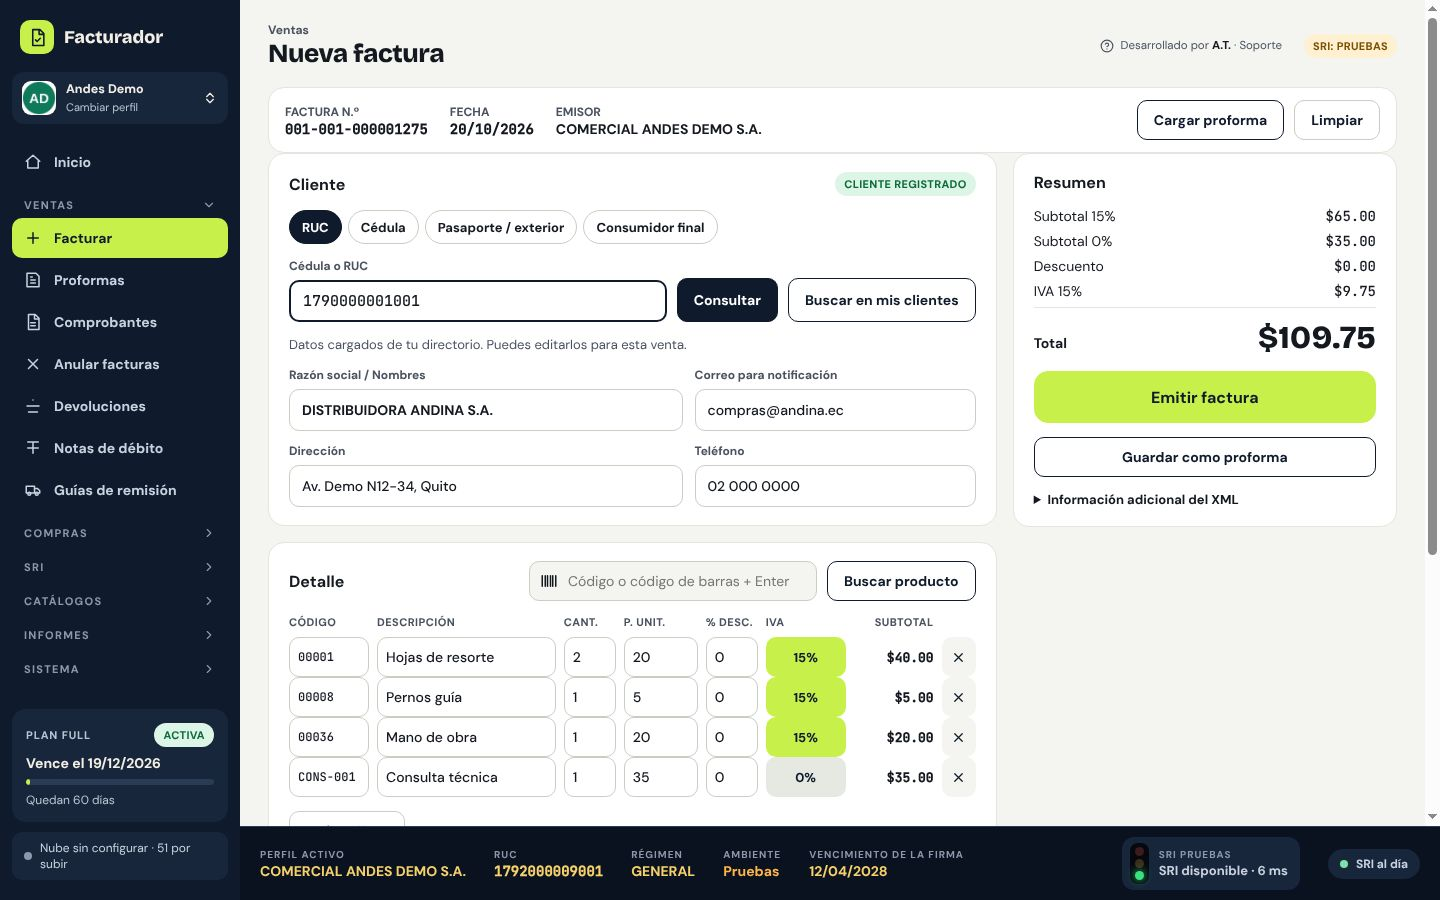
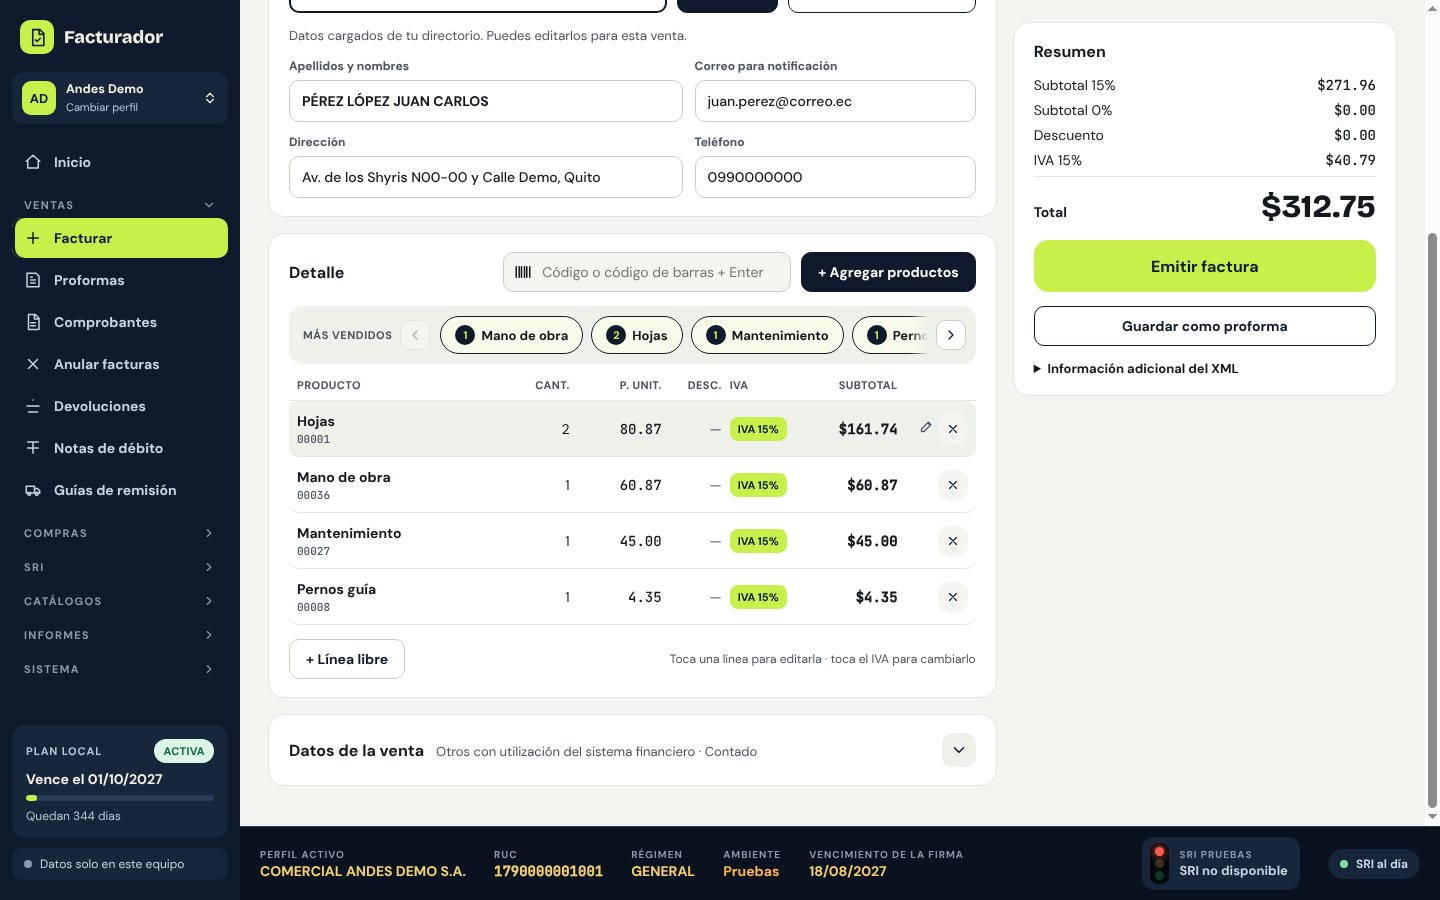
Recorrido del Facturador: nueva pantalla de factura y ventana para agregar productos
Claude-Session: https://claude.ai/code/session_01VtSCBU9waPVTdkNV5jUGNa

diff --git a/demos/facturador/index.html b/demos/facturador/index.html
@@ -39,13 +39,14 @@
   <p class="sub">Programa de escritorio para Ecuador que emite, firma y autoriza comprobantes electrónicos ante el SRI. Datos de demostración ficticios.</p>
 </header>
 <nav class="chips" aria-label="Secciones">
-  <a href="#inicio">Inicio</a><a href="#factura">Facturar</a><a href="#ride">RIDE</a><a href="#autorrelleno">Autorrelleno SRI</a><a href="#anulacion">Anulación</a>
+  <a href="#inicio">Inicio</a><a href="#factura">Facturar</a><a href="#agregar">Agregar productos</a><a href="#ride">RIDE</a><a href="#autorrelleno">Autorrelleno SRI</a><a href="#anulacion">Anulación</a>
   <a href="#guia">Guías</a><a href="#retencion">Retenciones</a><a href="#autorizaciones">Autorizaciones</a><a href="#reportes">Reportes</a>
   <a href="#produccion">Producción</a><a href="#usuarios">Usuarios</a><a href="#respaldos">Respaldos</a>
 </nav>
 <main>
   <figure id="inicio"><h2>Todo el negocio de un vistazo</h2><p>Ventas del mes, siguiente número de factura, accesos rápidos y el semáforo del SRI siempre visible.</p><div class="marco"><img src="img/inicio.jpg" alt="Pantalla de inicio con ventas del mes y accesos rápidos" loading="lazy" width="1440" height="900"></div></figure>
-  <figure id="factura"><h2>Facturar en segundos</h2><p>Busca productos por código o código de barras, aplica descuentos y tarifas de IVA editables. El total se calcula al instante.</p><div class="marco"><img src="img/factura.jpg" alt="Pantalla de nueva factura" loading="lazy" width="1440" height="900"></div></figure>
+  <figure id="factura"><h2>Facturar en segundos</h2><p>Tus productos más vendidos aparecen en una barra deslizable: un toque y entran a la factura. Las líneas se ven limpias y se editan con solo tocarlas; los datos de pago quedan plegados hasta que los necesites.</p><div class="marco"><img src="img/factura.jpg" alt="Pantalla de nueva factura con la barra de más vendidos" loading="lazy" width="1440" height="900"></div></figure>
+  <figure id="agregar"><h2>Varios productos de una vez</h2><p>Con F2 se abre una ventana para buscar por código o nombre, elegir varios productos, ajustar cantidad, precio e IVA y pasarlos todos juntos a la factura.</p><div class="marco"><img src="img/agregar.jpg" alt="Ventana para agregar varios productos a la factura" loading="lazy" width="1440" height="900"></div></figure>
   <figure id="ride"><h2>Autorizada y lista para entregar</h2><p>Al emitir se firma con XAdES-BES, se valida contra el esquema oficial, se envía al SRI y aparece la vista previa del RIDE para imprimir, guardar o enviar por correo.</p><div class="marco"><img src="img/ride.jpg" alt="Vista previa del RIDE de una factura autorizada" loading="lazy" width="1440" height="900"></div></figure>
   <figure id="autorrelleno"><h2>Clientes que se llenan solos</h2><p>Al escribir un RUC o una cédula, el programa consulta el catastro público del SRI y completa nombre y dirección.</p><div class="marco"><img src="img/autorrelleno.jpg" alt="Datos del cliente completados desde el SRI" loading="lazy" width="1440" height="900"></div></figure>
   <figure id="anulacion"><h2>Anulaciones y devoluciones</h2><p>Anula una factura con su nota de crédito automática o registra devoluciones parciales con control de saldo.</p><div class="marco"><img src="img/anulacion.jpg" alt="Anulación de factura" loading="lazy" width="1440" height="900"></div></figure>
